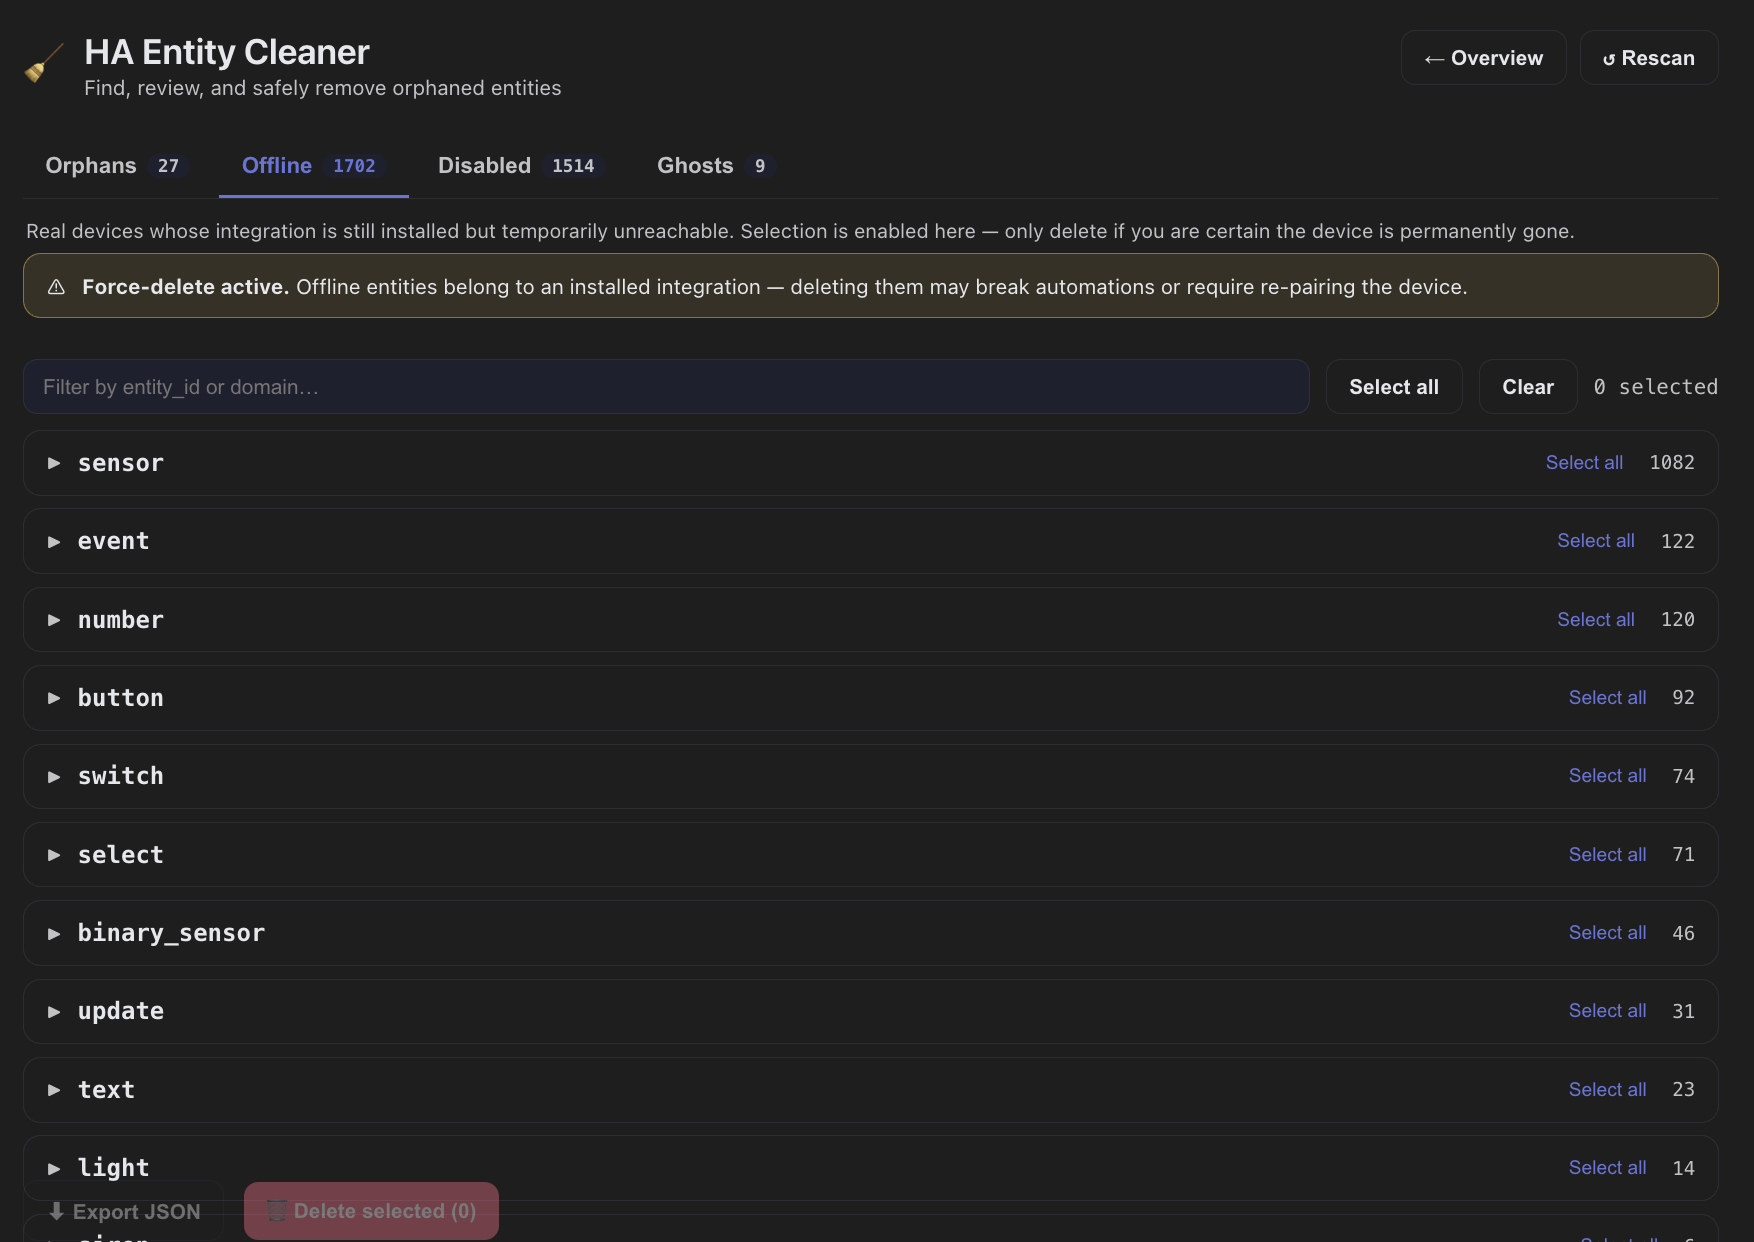
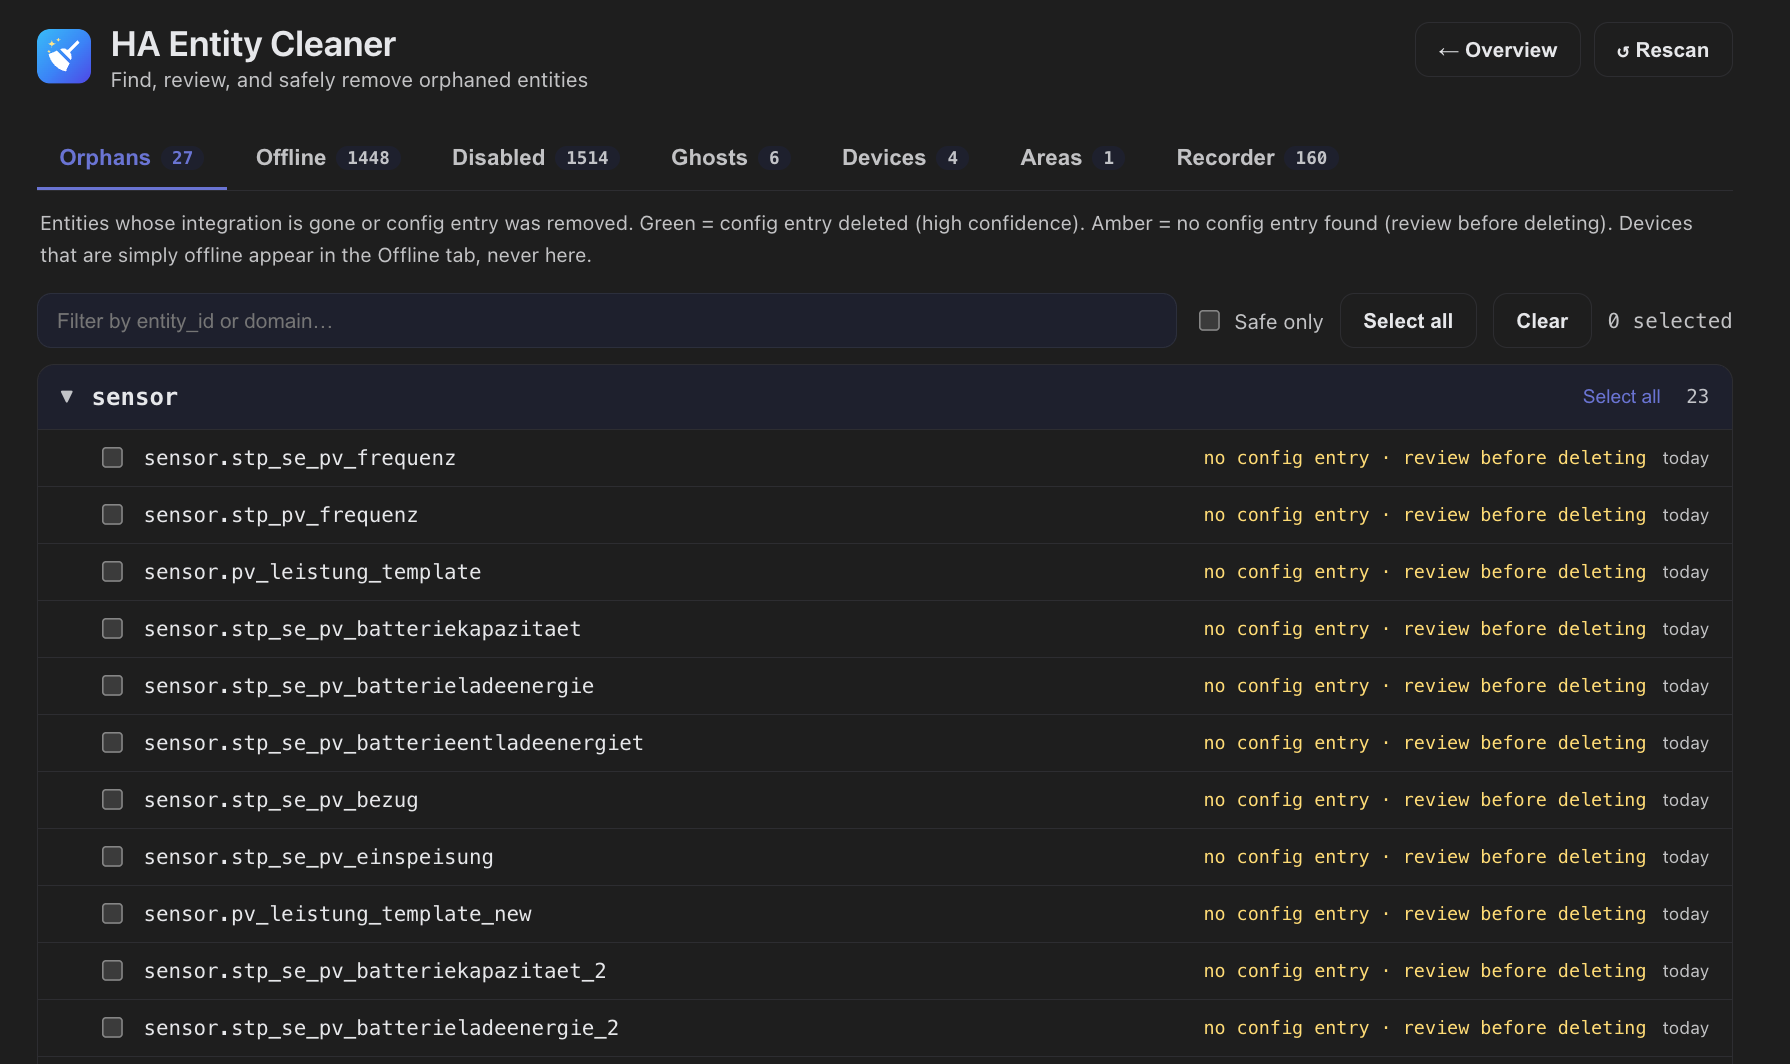
feat(panel): list the actual entities in the delete confirm dialog (#23)
The confirm dialog showed a per-domain count ("sensor: 1"); it now lists
the actual entity_ids that will be deleted (capped at 200 with a "+N
more"), so you can see exactly what's going. Also refreshes the README
triage and delete screenshots.

diff --git a/custom_components/ha_entity_cleaner/www/ha-entity-cleaner.js b/custom_components/ha_entity_cleaner/www/ha-entity-cleaner.js
@@ -996,7 +996,6 @@ class HaEntityCleanerPanel extends HTMLElement {
 
     if (this._deleteStep === "confirm") {
       const items = this._selectedItems;
-      const groups = groupByDomain(items);
       const refCount = items.filter(i => i.referenced).length;
       const confirmed = this._backupAck && this._confirmText.trim().toUpperCase() === "DELETE";
 
@@ -1006,7 +1005,9 @@ class HaEntityCleanerPanel extends HTMLElement {
       ));
 
       const list = el("div", { className: "modal-list" });
-      list.textContent = [...groups.entries()].map(([d, l]) => `${d}: ${l.length}`).join("\n");
+      const ids = items.map(i => i.entity_id);
+      const CAP = 200;
+      list.textContent = ids.slice(0, CAP).join("\n") + (ids.length > CAP ? `\n…+${ids.length - CAP} more` : "");
       modal.appendChild(list);
 
       if (refCount) {